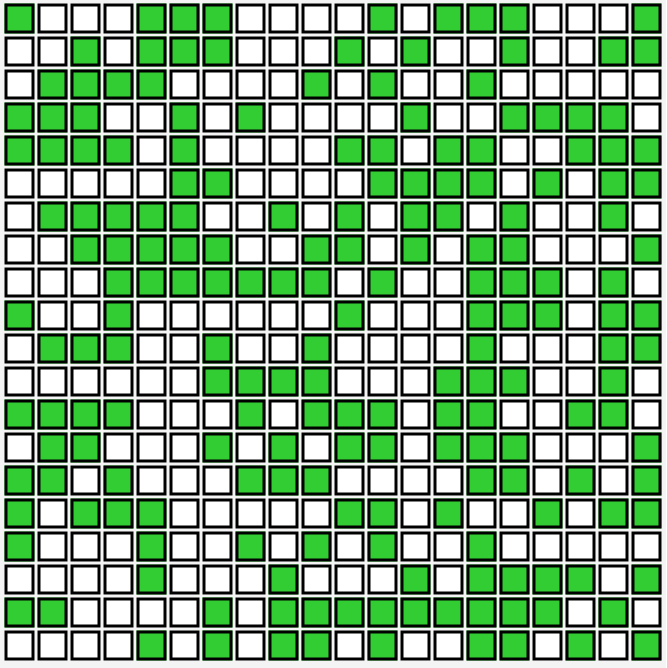
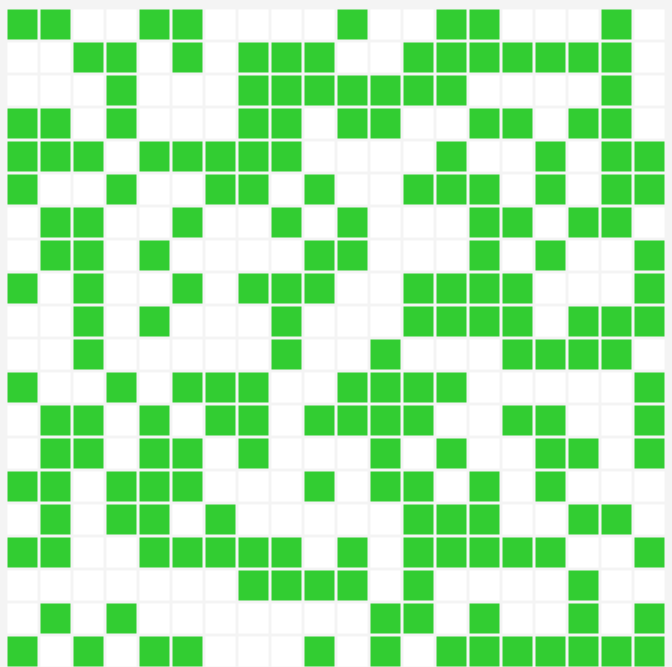
Updatering til projektet

diff --git a/src/sample/Game.java b/src/sample/Game.java
@@ -54,9 +54,6 @@ public class Game {
                     rectangleGreen = new Rectangle(20, 20, Color.LIMEGREEN);
                     rectangleGreen.setX(xPosition);
                     rectangleGreen.setY(yPosition);
-                    rectangleGreen.setStrokeType(StrokeType.INSIDE);
-                    rectangleGreen.setStroke(Color.BLACK);
-                    rectangleGreen.setStrokeWidth(2);
                     Main.getPane().getChildren().add(rectangleGreen);
                     rectangles.add(rectangleGreen);
                 }
@@ -65,9 +62,6 @@ public class Game {
                     rectangleWhite = new Rectangle(20, 20, Color.WHITE);
                     rectangleWhite.setX(xPosition);
                     rectangleWhite.setY(yPosition);
-                    rectangleWhite.setStrokeType(StrokeType.INSIDE);
-                    rectangleWhite.setStroke(Color.BLACK);
-                    rectangleWhite.setStrokeWidth(2);
                     Main.getPane().getChildren().add(rectangleWhite);
                     rectangles.add(rectangleWhite);
                 }
